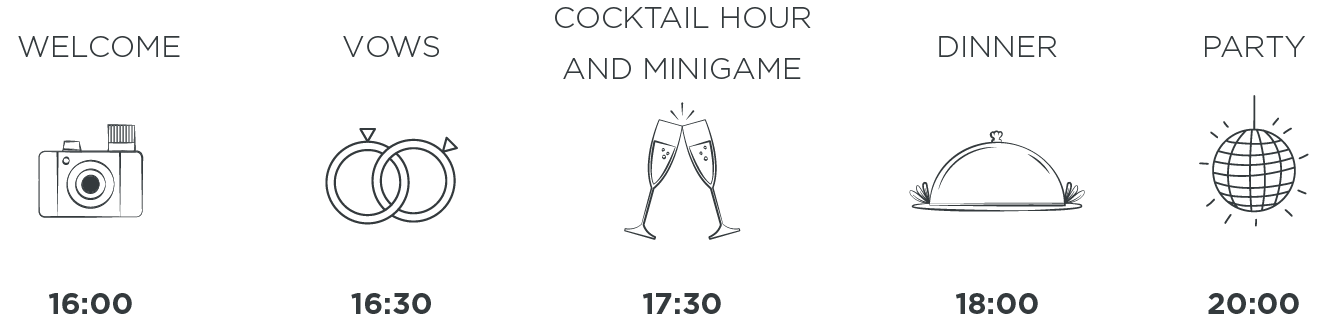
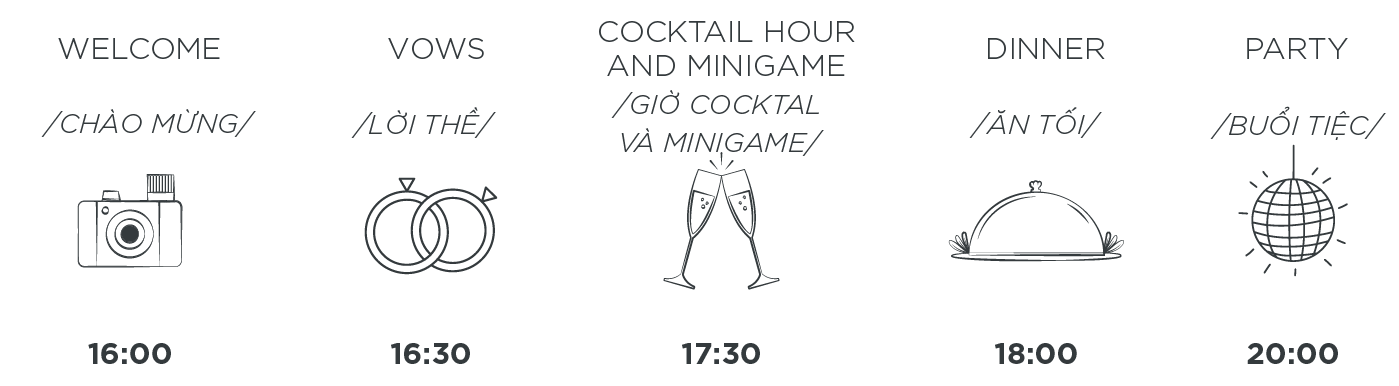
update

diff --git a/thiepmoi.html b/thiepmoi.html
@@ -57,13 +57,15 @@
                 <hr>
                 <label for="" class="lb6">An Lam Retreats</label>
                 <label for="" class="church">24/1 Trung Street Vinh Phu Ward Thuan An City, Binh Duong</label>
+                <label for="" class="churchh"><i>/ 24/1 Khu phố Trung, phường Vĩnh Phú, TP. Thuận An, tỉnh Bình Dương /</i></label>
                 <div class="map">
-                    <a href="https://maps.app.goo.gl/2bQPUVhDJXCgswrb8" class="link-map">XEM BẢN ĐỒ</a>
+                    <a href="https://maps.app.goo.gl/2bQPUVhDJXCgswrb8" class="link-map">MAPS <br> <i>/XEM BẢN ĐỒ/</i></a>
                 </div>
                 <img src="./thiep/anh/pic2-02.png" alt="" class="img-center">
            </div>
            <div class="box-timeline">
                 <lb class="lb-timeline">TIMELINE</lb>
+                <lb class="lb-timelinee"><i>/Lịch Trình/</i></lb>
                 <lb class="dot"><i class="fa-solid fa-diamond"></i></lb>
                 <img src="./thiep/anh/timeline-02.png" alt="" class="img-timeline">
             </div>
@@ -95,12 +97,14 @@
             </div>
             <div class="box-dress">
                 <label for="" class="lb-dress">dresscode</label>
+                <label for="" class="lb-dresss"><i>/Trang Phục/</i></label>
                 <lb class="dot"><i class="fa-solid fa-diamond"></i></lb>
                 <img src="./thiep/anh/dress-02.png" alt="" class="img-dress">
                 <img src="./thiep/anh/pic3-02.png" alt="" class="img-center2">
             </div>
             <div class="box-story">
                 <label for="" class="lb-story">our story</label>
+                <label for="" class="lb-storyy"><i>/Câu chuyện của chúng mình/</i></label>
                 <hr>
                 <lb class="dot"><i class="fa-solid fa-diamond"></i></lb>
                 <hr>

diff --git a/thiep/xacnhan.css b/thiep/xacnhan.css
@@ -384,13 +384,19 @@ hr{
   font-family: var(--font-gotham);
   font-size: 10px;
   font-weight: 300;
+  margin-bottom: 5px;
+}
+.churchh{
+  font-family: var(--font-gotham);
+  font-size: 10px;
+  font-weight: 300;
   margin-bottom: 40px;
 }
 
 .map{
   font-family: var(--font-gotham);
   width: 400px;
-  height: 30px;
+  height: 50px;
   background-color:#34393D;
   display: flex;
   justify-content: center;
@@ -426,7 +432,13 @@ hr{
   font-family: var(--font-mtd);
   color: #111;
   font-size: 45px;
-  margin: 100px 0 50px;
+  margin-top: 100px;
+}
+.lb-timelinee{
+  font-family: var(--font-mtd);
+  color: #111;
+  font-size: 40px;
+  margin: 5px 0 50px;
 }
 
 .img-timeline{
@@ -498,8 +510,14 @@ hr{
 
 .lb-dress{
   font-size: 40px;
+  /* margin-bottom: 50px; */
+}
+
+.lb-dresss{
+  font-size: 40px;
   margin-bottom: 50px;
 }
+
 
 .img-dress{
   width: 80%;
@@ -521,6 +539,10 @@ hr{
 .lb-story{
   font-family: var(--font-mtd);
   font-size:40px;
+}
+.lb-storyy{
+  font-family: var(--font-mtd);
+  font-size:30px;
 }
 
 .story1{
